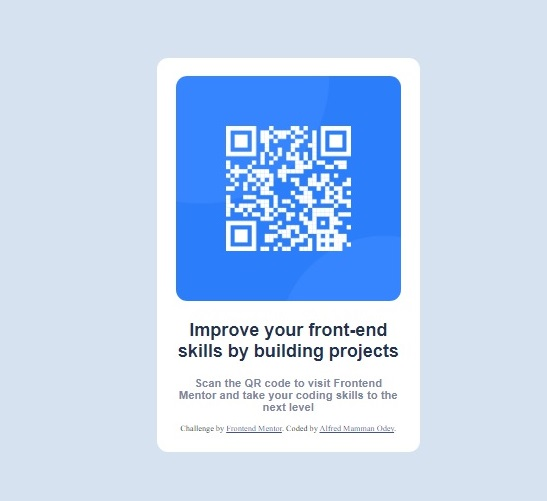
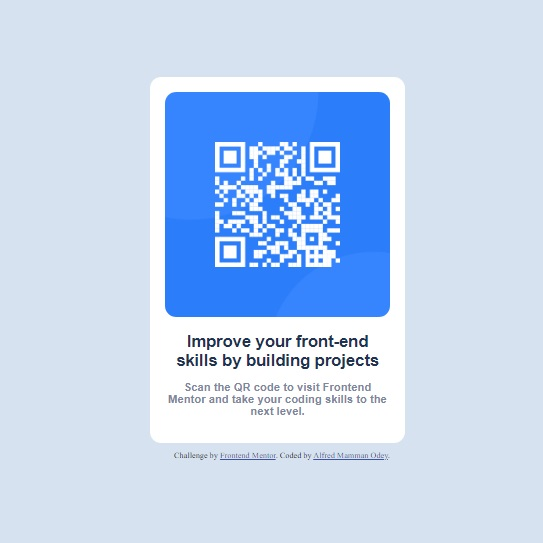
Edited files

Changed region(s): [[0.2652, 0.0898, 0.7661, 0.9281], [0.3831, 0.2395, 0.6483, 0.509]]

diff --git a/index.html b/index.html
@@ -16,18 +16,13 @@
       <img id="qrCode" src="./images/image-qr-code.png" alt="QR Code">
     </div>
     <div class="instruction">
-      <h2 id="heading1">Improve your front-end skills by building projects</h2>
-      <p id="para">Scan the QR code to visit Frontend Mentor and take your coding skills to the next level</p>
-    </div>
-  
-    
-  
-    
-    
-    <div class="attribution">
-      Challenge by <a href="https://www.frontendmentor.io?ref=challenge" target="_blank">Frontend Mentor</a>. 
-      Coded by <a href="https://www.frontendmentor.io/profile/AlfredOdey">Alfred Mamman Odey</a>.
+      <h1 id="heading1">Improve your front-end skills by building projects</h1>
+      <p id="para">Scan the QR code to visit Frontend Mentor and take your coding skills to the next level.</p>
     </div>
   </main>
+  <div class="attribution">
+    Challenge by <a href="https://www.frontendmentor.io?ref=challenge" target="_blank">Frontend Mentor</a>. 
+    Coded by <a href="https://www.frontendmentor.io/profile/AlfredOdey">Alfred Mamman Odey</a>.
+  </div>
 </body>
 </html>

diff --git a/style.css b/style.css
@@ -2,13 +2,14 @@ body {
     text-align: center;
     background-color:  hsl(212, 45%, 89%);
     width: 1440px;
+    
 }
 
 main {
     background-color: white;
     border-radius: 15px;
-    margin: 150px 400px 250px 500px;
-    padding: 25px;
+    margin: 150px 400px 10px 500px;
+    padding: 20px;
     width: 300px;
     text-align: center;
 
@@ -17,9 +18,14 @@ main {
 .attribution {
     font-size: 11px;
     text-align: center;
+    width: 300px;
+    margin: 10px 400px 250px 500px;
+    padding-left: 26px;
+    
 }
 .attribution a {
     color: hsl(228, 45%, 44%);
+    text-align: center;
 }
 
 #qrCode {
@@ -32,6 +38,7 @@ main {
     font-family: Arial;
     color: hsl(218, 44%, 22%);
     text-align: center;
+    font-size: 22px;
     
 }
 
